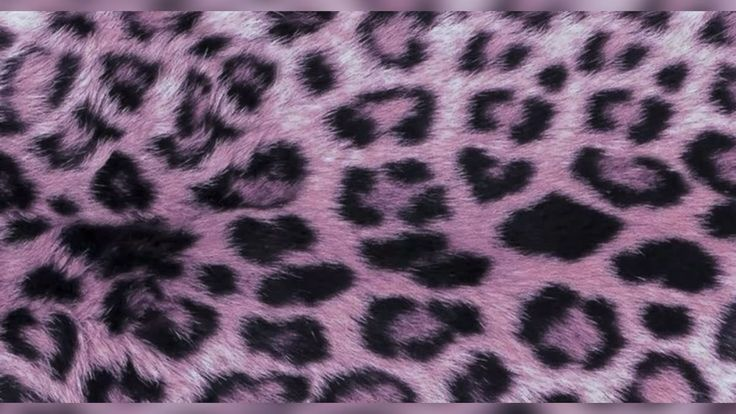
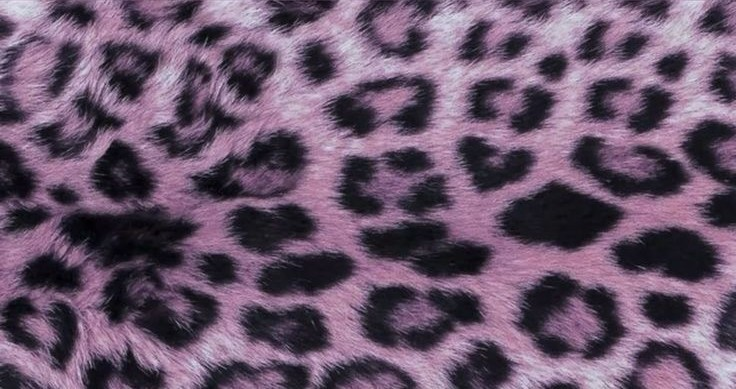
add bg

diff --git a/src/global.css b/src/global.css
@@ -22,16 +22,14 @@
 
 /* Elements */
 html {
-    @apply scroll-smooth;
+    @apply scroll-smooth px-5;
+    background-image: url("../src/assets/img/header.jpg");
 }
 body {
-    @apply text-base font-sans bg-bg text-fg font-sans max-w-1000 m-auto;
+    @apply text-base font-sans bg-bg text-fg text-center leading-6;
 }
-main {
-    @apply relative;
-}
-section {
-    @apply py-4;
+header, aside, nav, main, footer, section {
+    @apply p-3;
 }
 h1 {
     @apply text-7xl mb-6 font-display tracking-widest;
@@ -43,7 +41,7 @@ h3 {
     @apply text-2xl mb-4 text-accent;
 }
 p {
-    @apply mb-2;
+    @apply my-3;
 }
 a {
     @apply text-accent;
